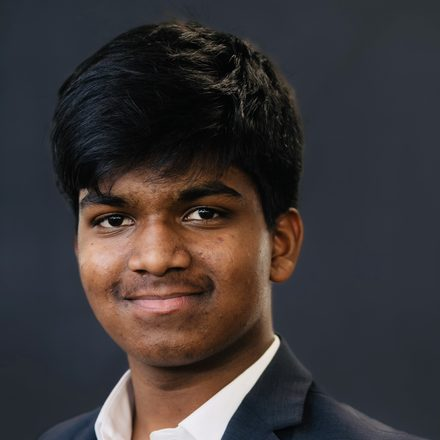
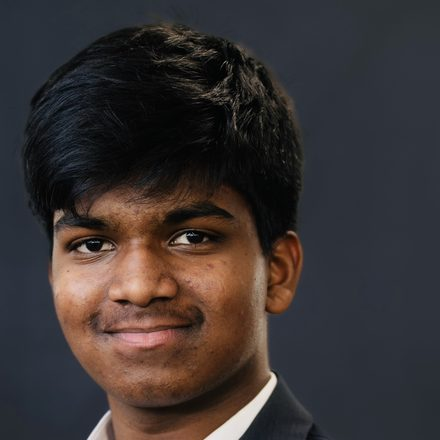
Remove blur seam behind dashboard orb; fix 100% overlap; recenter Abhinav
- The "mask" cutting through the orb on the dashboard was a page-wide
  backdrop-filter:blur(6px) applied to the content column's background. It
  blurred the video only inside that box's bounds and stayed sharp outside
  it — that sharp/blurred boundary was the rectangular seam. Removed the blur,
  kept the near-transparent fill. Crystal clear everywhere now, no seam
  possible.
- Mental Battery's "100%" overlapped its "%" sign: the battery block had a
  FIXED 290px width sized for 2-digit numbers ("76"), so 3 digits ("100")
  pushed the "%" into the number. Changed to min-width + white-space:nowrap so
  it sizes to content at any value.
- Recentered Abhinav's headshot: the previous crop used the full image width
  as the square side, which for this portrait meant zero room to shift
  horizontally (crop was pinned to the image edge regardless of the target
  fraction). Zoomed in slightly (90% of width) to create room, then centered
  on his face — verified in the rendered circle.

Detection unchanged: 179/179.

diff --git a/templates/app.html b/templates/app.html
@@ -165,8 +165,11 @@ body > *:not([data-backdrop]) { position:relative; z-index:2; }
 [style*="background:#f2f8ff"], [style*="background:#eef4fb"],
 [style*="background:#f4f7fb"], [style*="background:#fafcfe"],
 [style*="background:#f6f8fb"] {
+  /* No blur — a page-wide backdrop-filter here blurred the video ONLY inside
+     this box's bounds, and stayed sharp outside it, which is exactly the
+     rectangular "mask" seam cutting through the orb that kept getting flagged.
+     Crystal clear: just a near-transparent fill, no blur layer. */
   background:rgba(255,255,255,0.022) !important;
-  backdrop-filter:blur(6px); -webkit-backdrop-filter:blur(6px);
 }
 /* Solid white, per the design: primary buttons and the user's chat bubbles. */
 button[style*="background:#fff"], [style*="background:#fff"][style*="color:#000"] {
@@ -654,10 +657,13 @@ input::placeholder, textarea::placeholder { color:#7b879d !important; }
 
               <div style="display:flex; gap:40px; margin-top:32px; align-items:center;">
                 <!-- battery -->
-                <div style="flex-shrink:0; display:flex; flex-direction:column; align-items:center; width:290px;">
-                  <div style="display:flex; align-items:flex-start; justify-content:center;">
+                <!-- min-width, not a fixed width: at 100% the number is 3 digits
+                     and a fixed 290px box let the "%" overlap it. Sizes to
+                     content instead, so 76% and 100% both lay out cleanly. -->
+                <div style="flex-shrink:0; display:flex; flex-direction:column; align-items:center; min-width:290px;">
+                  <div style="display:flex; align-items:flex-start; justify-content:center; white-space:nowrap;">
                     <div class="hd" id="battNum" style="font-size:150px; color:#fff; line-height:.9; letter-spacing:-4px;">76</div>
-                    <div class="hd" style="font-size:44px; color:rgba(255,255,255,.6); line-height:1; margin-top:14px;">%</div>
+                    <div class="hd" style="font-size:44px; color:rgba(255,255,255,.6); line-height:1; margin-top:14px; margin-left:2px;">%</div>
                   </div>
                   <div id="battLabel" style="font-size:10px; font-weight:600; letter-spacing:.24em; color:rgba(255,255,255,.75); margin-top:6px;">CHARGED</div>
                   <div style="font-size:12px; letter-spacing:.2em; text-transform:uppercase; color:rgba(255,255,255,.6); margin-top:20px; font-weight:300; display:flex; align-items:center; justify-content:center; gap:7px;">
